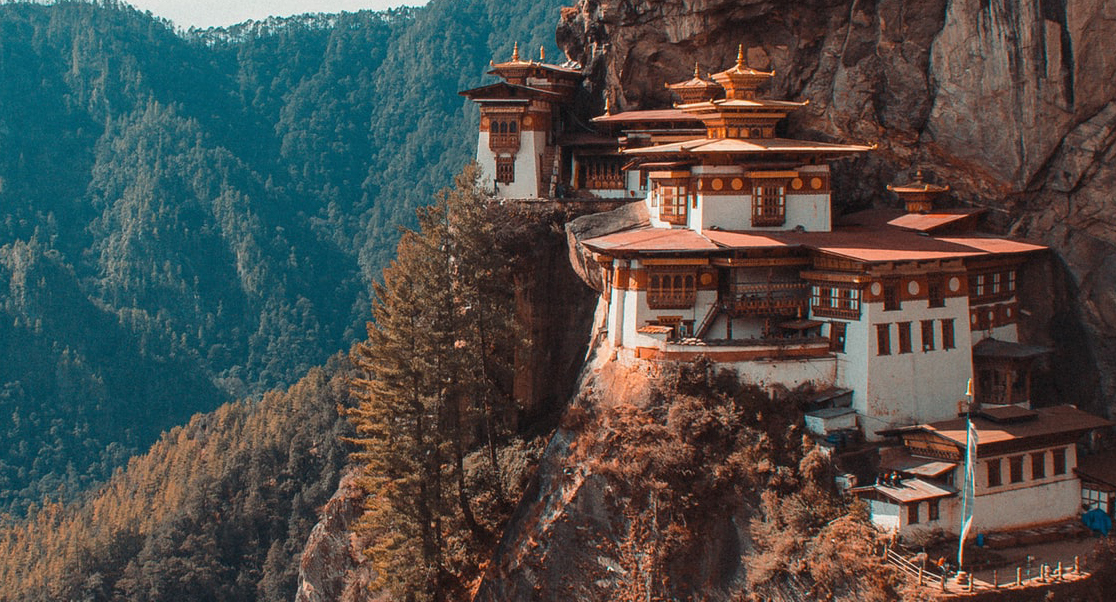
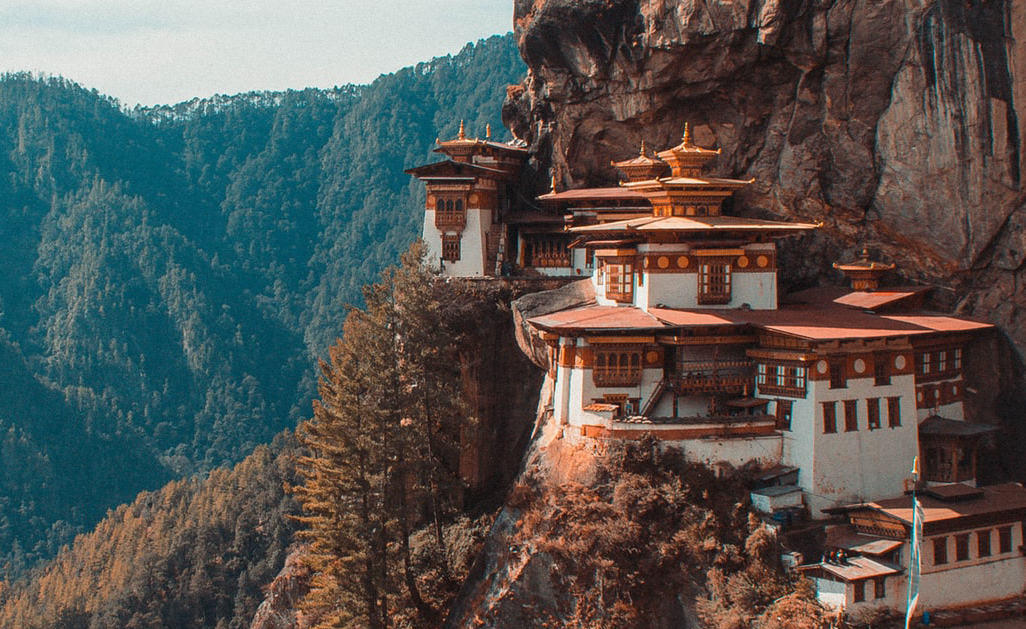
started styling header

diff --git a/Desktop_only/travello/css/styles.css b/Desktop_only/travello/css/styles.css
@@ -1,1 +1,1 @@
-@import url("https://fonts.googleapis.com/css?family=Open+Sans:400,700|ZCOOL+XiaoWei&display=swap");*,*::before,*::after{margin:0;padding:0;-webkit-box-sizing:border-box;box-sizing:border-box}body,html{font-size:10px;width:100%;height:100%;font-family:'Open Sans',sans-serif}.container{width:90%;margin:0 auto}h1,h2,h3,h4,h5{font-family:'ZCOOL XiaoWei',serif}footer{background:#452f20}header{background:linear-gradient(45deg, rgba(203,153,114,0.1), rgba(203,153,114,0.2)),url(../img/hero_img.jpg);background-size:cover;background-repeat:no-repeat;background-position:center;min-height:90vh}.social-link img{-webkit-filter:invert(100%);filter:invert(100%)}.payment-article li a{overflow:hidden}.cimbbank-logo{display:block;width:100px;height:70px;background:#F8F7F6;-o-object-fit:cover;object-fit:cover;border-radius:5px}.cimbbank-logo img{width:100%}
+@import url("https://fonts.googleapis.com/css?family=Montserrat:400,500|ZCOOL+XiaoWei&display=swap");*,*::before,*::after{margin:0;padding:0;-webkit-box-sizing:border-box;box-sizing:border-box}body,html{font-size:10px;width:100%;height:100%;font-family:'Montserrat',sans-serif}.container{width:90%;margin:0 auto}a{text-decoration:none;color:#5B5048}ul{list-style:none}h1,h2,h3,h4,h5{font-family:'ZCOOL XiaoWei',serif}footer{background:#452f20}header{background:linear-gradient(45deg, rgba(109,124,134,0.45), rgba(203,153,114,0.2)),url(../img/hero_img.jpg);background-size:cover;background-repeat:no-repeat;background-position:center;min-height:90vh;padding:5rem 0}nav{display:-webkit-box;display:-ms-flexbox;display:flex;-webkit-box-pack:justify;-ms-flex-pack:justify;justify-content:space-between}.logo{margin-top:-2rem}.main-nav{display:-webkit-box;display:-ms-flexbox;display:flex;-ms-flex-pack:distribute;justify-content:space-around;min-width:25%}.main-nav a{color:#F8F7F6;font-size:1.6rem;font-weight:500;position:relative}.main-nav a::after{content:'';position:absolute;bottom:-0.2rem;left:0;width:0;height:0.2rem;background:#F8F7F6;-webkit-transition:width 0.3s ease-in-out;transition:width 0.3s ease-in-out}.main-nav a:hover::after{width:100%}.headings{display:-webkit-box;display:-ms-flexbox;display:flex;-webkit-box-orient:vertical;-webkit-box-direction:normal;-ms-flex-direction:column;flex-direction:column;-webkit-box-pack:justify;-ms-flex-pack:justify;justify-content:space-between;height:80vh;padding-top:15rem}.headings .headline{color:#F8F7F6;width:5em;font-size:6rem;letter-spacing:0.2rem}.headings .subheadline{margin-top:1em;color:#F8F7F6;width:30rem;font-size:1.6rem;line-height:2;text-shadow:2px 2px 3px #5B5048}.social-link img{-webkit-filter:invert(100%);filter:invert(100%)}.payment-article li a{overflow:hidden}.cimbbank-logo{display:block;width:100px;height:70px;background:#F8F7F6;-o-object-fit:cover;object-fit:cover;border-radius:5px}.cimbbank-logo img{width:100%}

diff --git a/Desktop_only/travello/sass/_landing_page.sass b/Desktop_only/travello/sass/_landing_page.sass
@@ -1,6 +1,53 @@
 header   
-    background: linear-gradient(45deg,rgba($brown,0.1),rgba($brown,0.2)),url(../img/hero_img.jpg)
+    background: linear-gradient(45deg,rgba($medium-gray,0.45),rgba($brown,0.2)),url(../img/hero_img.jpg)
     background-size: cover
     background-repeat: no-repeat
     background-position: center
     min-height: 90vh
+    padding: 5rem 0    
+nav
+    display: flex
+    justify-content: space-between
+.logo
+    margin-top: -2rem
+.main-nav
+    display: flex
+    justify-content: space-around
+    min-width: 25%
+    a
+        color: $white
+        font-size: 1.6rem
+        font-weight: 500
+        position: relative
+        &::after
+            content: ''
+            position: absolute
+            bottom: -0.2rem
+            left: 0
+            width: 0
+            height: 0.2rem
+            background: $white
+            transition: width 0.3s ease-in-out
+        &:hover::after
+            width: 100%
+            
+.headings
+    display: flex
+    flex-direction: column
+    justify-content: space-between
+    height: 80vh    
+    padding-top: 15rem
+    .headline
+        color: $white
+        width: 5em
+        font-size: 6rem
+        letter-spacing: 0.2rem
+    .subheadline
+        margin-top: 1em
+        color: $white
+        width: 30rem
+        font-size: 1.6rem
+        line-height: 2
+        text-shadow: 2px 2px 3px $dark-gray
+        
+            

diff --git a/Desktop_only/travello/sass/_general.sass b/Desktop_only/travello/sass/_general.sass
@@ -1,4 +1,4 @@
-@import url('https://fonts.googleapis.com/css?family=Open+Sans:400,700|ZCOOL+XiaoWei&display=swap')
+@import url('https://fonts.googleapis.com/css?family=Montserrat:400,500|ZCOOL+XiaoWei&display=swap')
 
 
 *,*::before,*::after
@@ -9,10 +9,15 @@ body, html
   font-size: 10px
   width: 100%
   height: 100%
-  font-family: 'Open Sans',sans-serif
+  font-family: 'Montserrat',sans-serif
 .container
   width: 90%
   margin: 0 auto
+a
+  text-decoration: none
+  color: $dark-gray
+ul
+  list-style: none
 
 h1,h2,h3,h4,h5
   font-family: 'ZCOOL XiaoWei',serif

diff --git a/Desktop_only/travello/index.html b/Desktop_only/travello/index.html
@@ -21,9 +21,9 @@
                 </ul>
             </nav>
 
-            <div class="container">
+            <div class="container headings">
                 <div class="heading">
-                    <h1 class="headline">Let's Make Your Best trip Ever</h1>
+                    <h1 class="headline">Let&rsquo;s Make Your Best Trip Ever</h1>
                     <p class="subheadline">The best travel for your journey respectful of the environment.</p>
                 </div>
                 <div class="slide-container">
